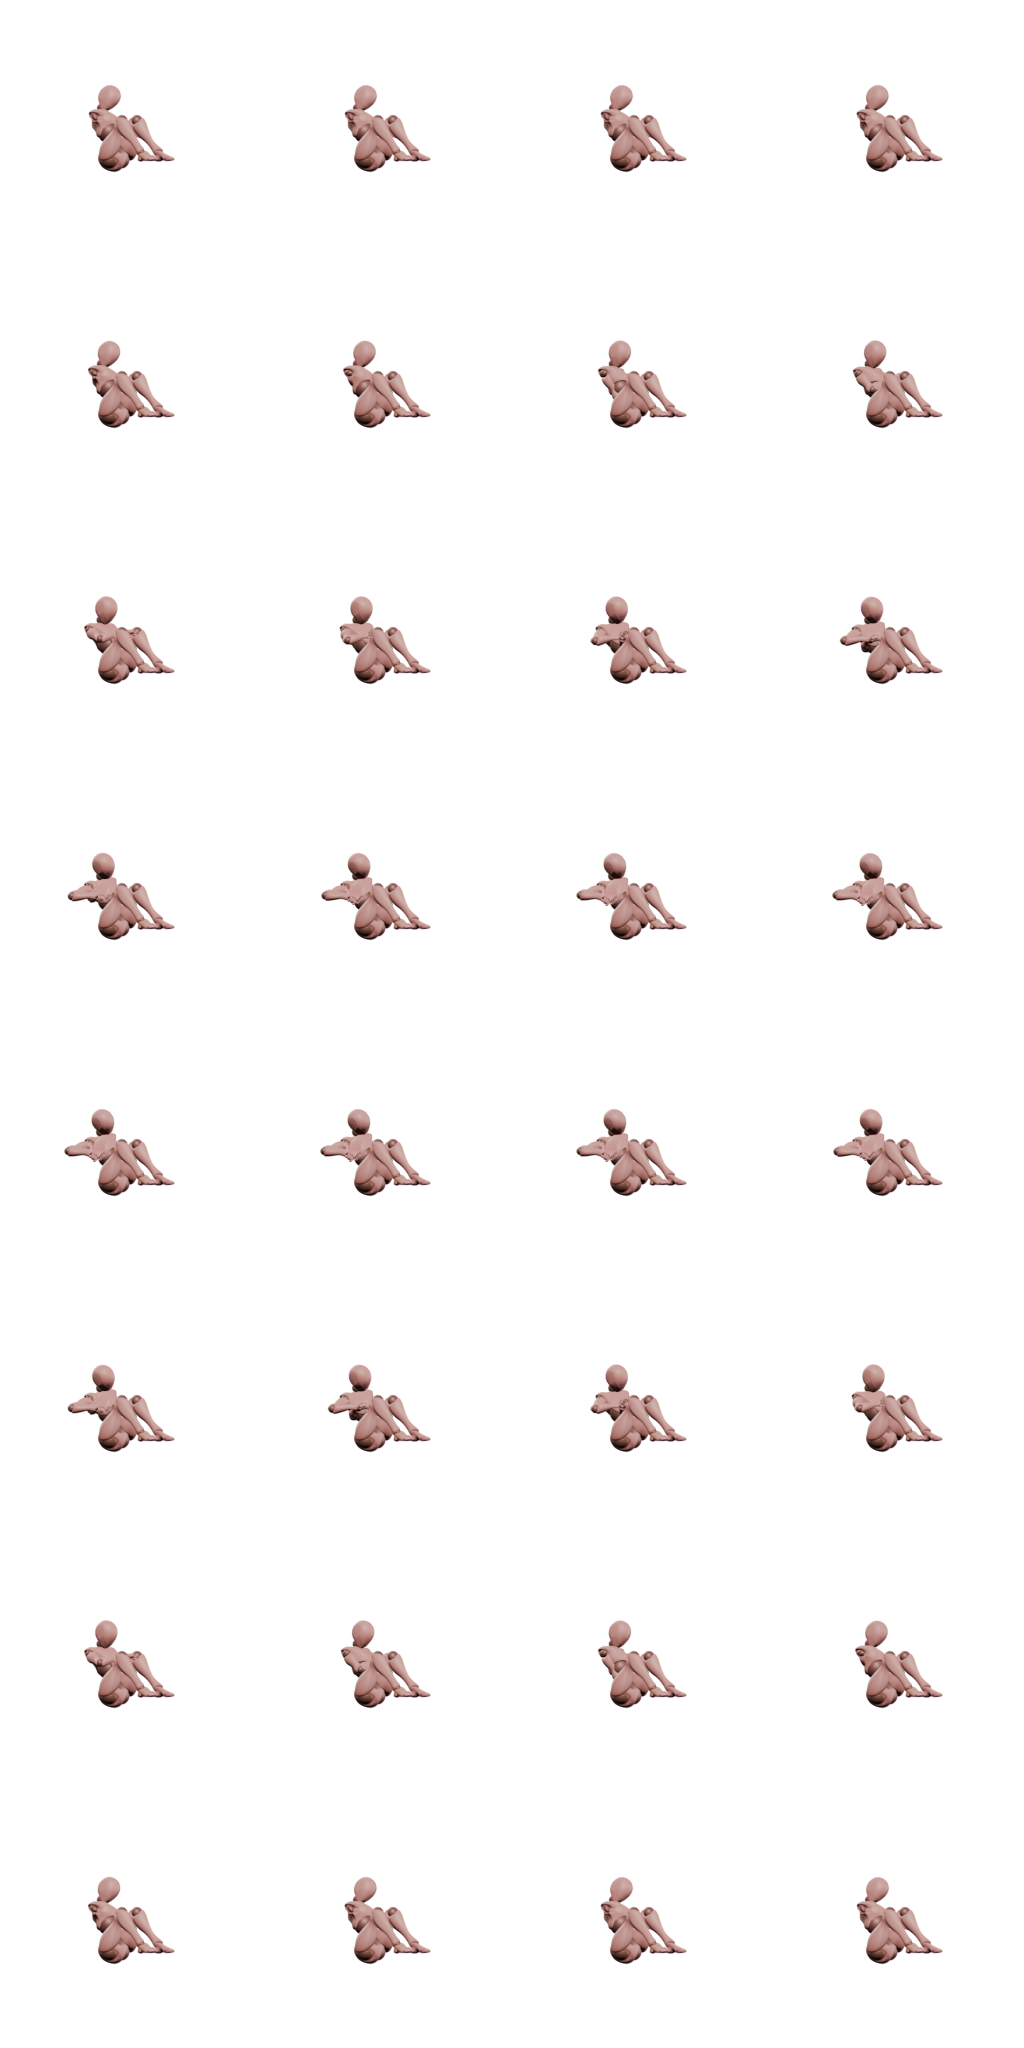
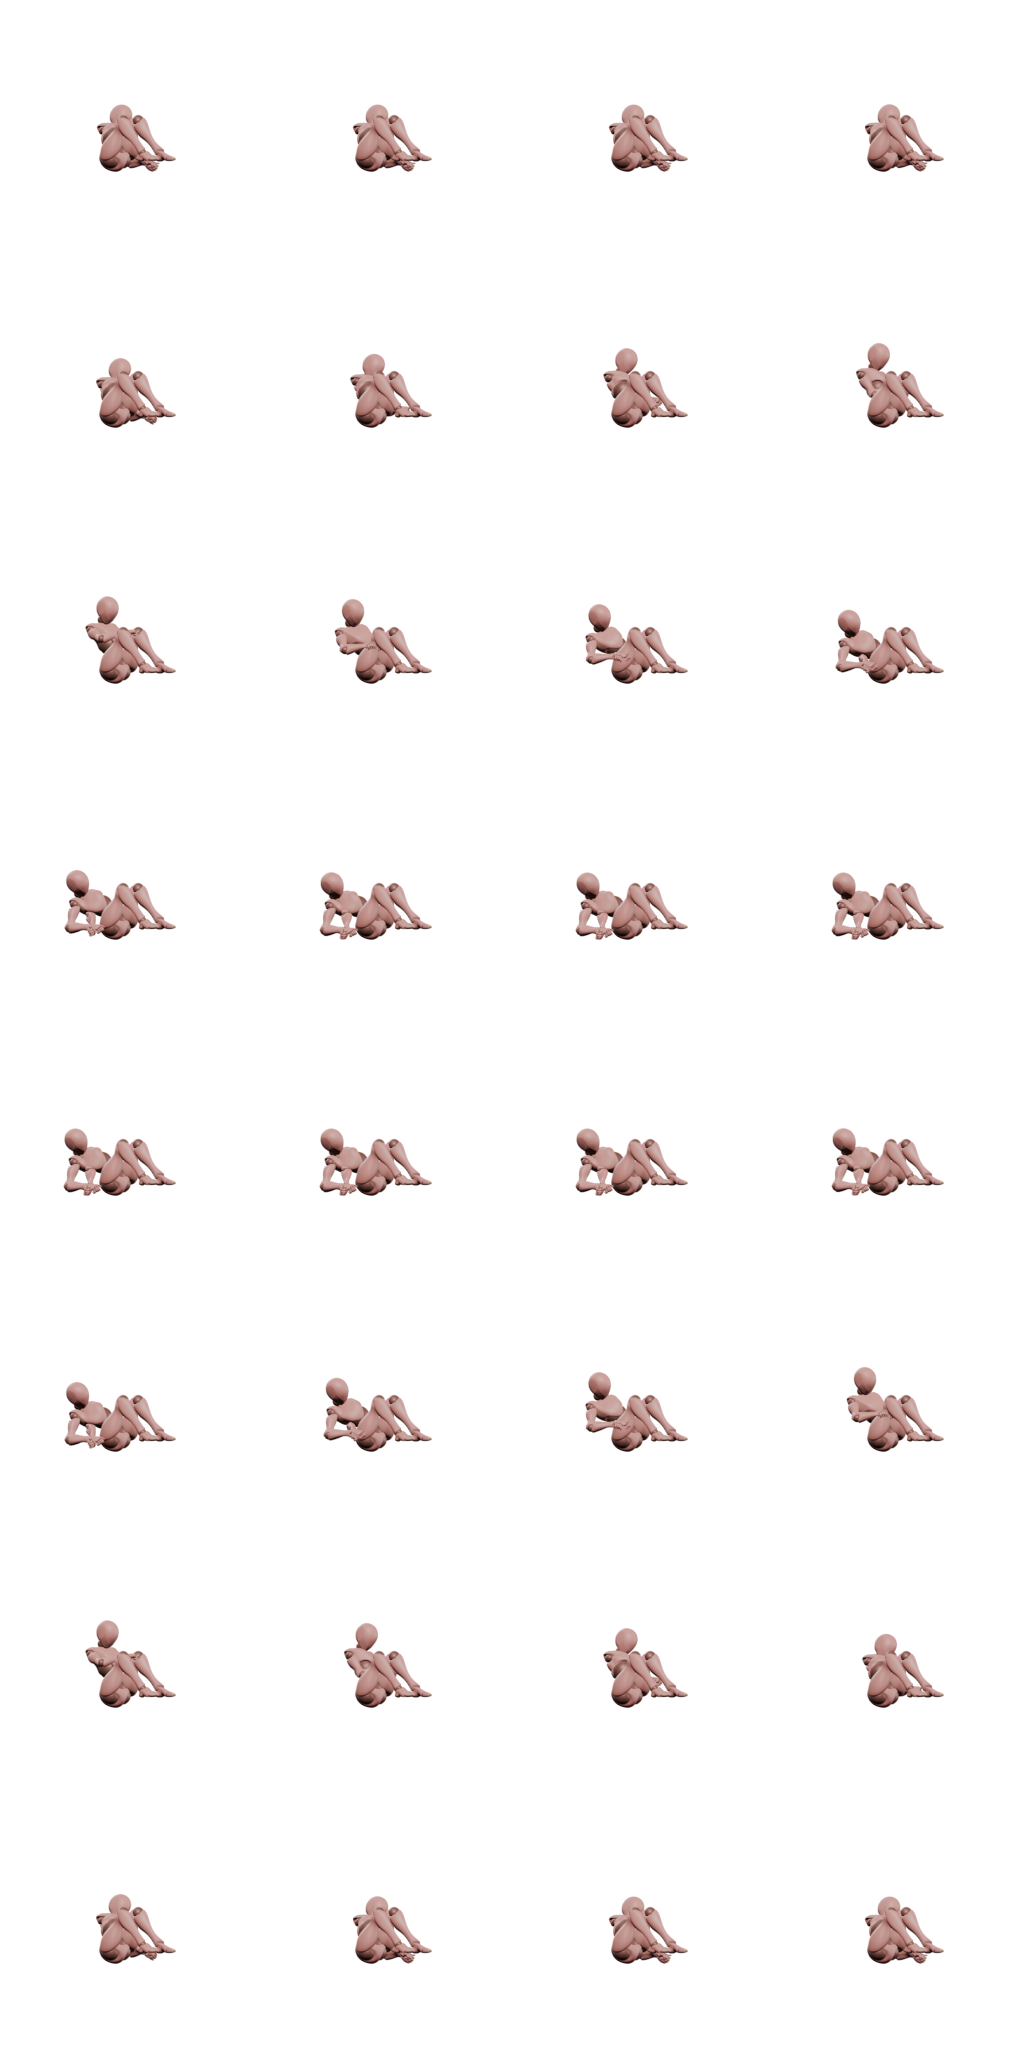
Le russian twist descend jusqu'au sol
Ce qui manquait n'était pas un angle mais la **borne** du mouvement : le
coude touche le tapis au bout de la course, à gauche puis à droite. C'est ce
contact qui dit jusqu'où tourner, et sans lui les cinq versions précédentes
balançaient les bras à mi-chemin sans que rien ne marque la fin.

Un coude qui descend au tapis à côté de la hanche demande plus qu'une
rotation du buste. Le calcul le dit : bras de 0,28 m, il faut l'épaule à
0,33 m du sol pour que le coude l'atteigne, alors qu'un buste seulement
pivoté la laisse à 0,50. Le tronc doit donc **pencher** du même côté en même
temps qu'il tourne. Les deux clés extrêmes inclinent la colonne de
soixante-cinq degrés sur le côté et la font rouler d'autant, et l'appui des
mains descend à neuf centimètres du sol : le coude s'y pose à quatre
centimètres près, épaisseur de chair comprise.

Le geste bouge enfin. Le déplacement moyen par image passe de 0,25 à 1,02 —
il était le plus faible des trente-deux planches, il est maintenant dans la
moyenne. Le bassin reste posé, rien ne traverse le plancher.

Claude-Session: https://claude.ai/code/session_01NWeSsvViQDVGJHt91FTbcJ

diff --git a/scripts/gestes_generes.py b/scripts/gestes_generes.py
@@ -1201,64 +1201,66 @@ GESTES = {
 
     # Russian twist, relevé sur trois vidéos de démonstration.
     #
-    # ## Ce qui fait l'exercice, et que trois versions ont manqué
+    # ## Ce qui fait l'exercice
     #
-    # La **rotation**, et rien d'autre. Le tronc garde son inclinaison du début
-    # à la fin, les jambes ne bougent pas, les mains restent jointes devant le
-    # sternum : ce qui travaille, ce sont les obliques qui font pivoter les
-    # épaules d'un côté puis de l'autre.
+    # Le torse pivote de gauche à droite, les bras avec, et **le coude touche
+    # le sol** au bout de la course de chaque côté. C'est ce contact-là qui
+    # borne le mouvement et le rend lisible : sans lui, on ne sait pas jusqu'où
+    # tourner, et cinq versions ont balancé les bras à mi-chemin sans que rien
+    # ne dise que c'était fini.
     #
-    # Et l'amplitude est **grande**. Sur la vidéo, à caméra fixe, on voit
-    # alternativement le dos de la démonstratrice et sa poitrine : elle tourne
-    # donc d'environ soixante-dix degrés de chaque côté, pas de quarante. Les
-    # trois premières versions balançaient les bras devant un buste immobile,
-    # ce qui n'est pas le même exercice.
+    # Un coude qui descend au tapis à côté de la hanche demande plus qu'une
+    # rotation : il faut que le buste **penche** du même côté. Les deux vont
+    # ensemble, et c'est pourquoi les clés extrêmes inclinent la colonne en
+    # plus de la faire rouler.
     #
     # ## Les mesures
     #
-    # Tronc à 65° du tapis, cuisse à 35° au-dessus de l'horizontale, tibia qui
-    # redescend de 33° — genou fléchi à 112°, cheville à vingt centimètres du
-    # sol. Les talons ne touchent jamais.
+    # Moyenne des **vecteurs** unitaires du relevé sur trente-huit images —
+    # jamais moyenne des angles, qui explose quand le segment passe près de la
+    # verticale de l'image :
+    #
+    #     bassin → épaule    (-0,436 ; +0,900)   64° au-dessus de l'horizontale
+    #     bassin → genou     (+0,452 ; +0,892)   63°
+    #     genou  → cheville  (+0,690 ; -0,724)  -46°
+    #
+    # Dispersion : 1,0°, 2,2° et 3,6°. Genou fléchi à 109°, cheville au-dessus
+    # du bassin d'un quart de longueur de tronc — assise, genoux hauts, talons
+    # décollés.
     "russian-twist": {
         "vue": "trois-quarts",
-        # Mille sept cent cinquante millisecondes pour un aller-retour complet.
-        # Relevé sur le va-et-vient du poignet : 1877 ms à vide, 1609 ms lesté.
         "duree": 1750,
-        # Le bassin est basculé en arrière, on est posé sur le sacrum, et l'on
-        # n'a que ce contact-là : la hauteur se déclare.
         "assise": ((+0.00, +0.423, +0.906), (+0.00, -0.906, +0.423)),
         "ancrage": False,
         "hauteur": 0.19,
         "symetrique": False,
-        # Les mains se **joignent**, ou tiennent un poids.
         "poings": 1.0,
-        # Un temps de chaque côté, rien au centre — on y passe, on ne s'y
-        # arrête pas.
-        "pauses": [0.10, 0.00, 0.10],
+        # Un temps au contact de chaque côté — c'est là qu'on marque —, rien au
+        # centre, qu'on traverse.
+        "pauses": [0.16, 0.00, 0.16],
         "cles": [
-            # Tourné à **gauche**, soixante-dix degrés. Debout comme assis, la
-            # gauche du personnage est en +X.
+            # Coude **gauche au sol**, à côté de la hanche gauche. Debout comme
+            # assis, la gauche du personnage est en +X.
             _pose(ASSIS_EN_ARRIERE, {
-                # La poitrine pivote autour de l'axe de la colonne. `APlat` ne
-                # sert d'ordinaire qu'à poser une paume au sol, mais son
-                # mécanisme est le **roulis** d'un os quelconque : appliqué au
-                # buste, il le fait tourner sur lui-même, ce qu'aucune direction
-                # ne sait dire.
-                _os("Spine1"): APlat((+0.00, +0.423, +0.906),
-                                     paume=(+0.94, -0.31, +0.145)),
-                _os("Spine2"): APlat((+0.00, +0.423, +0.906),
-                                     paume=(+0.94, -0.31, +0.145)),
-                _os("Neck"): (+0.20, +0.14, +0.97),
-                _os("Head"): (+0.40, -0.50, +0.77),
-                # Les mains se tiennent à trente centimètres devant le sternum
-                # et suivent la poitrine : la cible se calcule sur la normale du
-                # buste, qui tourne avec lui.
-                _os("LeftArm"): Appui((+0.28, 0.00, 0.43), (+1, 0, -0.3)),
-                _os("RightArm"): Appui((+0.28, 0.00, 0.43), (+1, 0, -0.3)),
+                # La colonne penche à gauche **et** roule à gauche : les deux
+                # ensemble descendent l'épaule assez bas pour que le coude
+                # atteigne le tapis.
+                _os("Spine"): (+0.645, +0.665, +0.375),
+                _os("Spine1"): APlat((+0.645, +0.665, +0.375),
+                                     paume=(+0.90, -0.36, +0.24)),
+                _os("Spine2"): APlat((+0.685, +0.635, +0.355),
+                                     paume=(+0.90, -0.36, +0.24)),
+                _os("Neck"): (+0.52, +0.42, +0.74),
+                _os("Head"): (+0.44, -0.30, +0.84),
+                # Les mains jointes se posent près du sol, contre la hanche, et
+                # le pôle pousse le coude vers le bas — c'est lui qui décide où
+                # sort la pointe du bras.
+                _os("LeftArm"): Appui((+0.42, -0.06, 0.09), (+0.45, 0, -0.89)),
+                _os("RightArm"): Appui((+0.42, -0.06, 0.09), (+0.45, 0, -0.89)),
                 _os("LeftHand"): SUIVRE,
                 _os("RightHand"): SUIVRE,
             }),
-            # De face, mains devant le sternum.
+            # De face, mains jointes devant le sternum.
             _pose(ASSIS_EN_ARRIERE, {
                 _os("Spine1"): APlat((+0.00, +0.423, +0.906),
                                      paume=(+0.00, -0.906, +0.423)),
@@ -1269,16 +1271,17 @@ GESTES = {
                 _os("LeftHand"): SUIVRE,
                 _os("RightHand"): SUIVRE,
             }),
-            # Tourné à **droite**, miroir exact.
+            # Coude **droit au sol**, miroir exact.
             _pose(ASSIS_EN_ARRIERE, {
-                _os("Spine1"): APlat((+0.00, +0.423, +0.906),
-                                     paume=(-0.94, -0.31, +0.145)),
-                _os("Spine2"): APlat((+0.00, +0.423, +0.906),
-                                     paume=(-0.94, -0.31, +0.145)),
-                _os("Neck"): (-0.20, +0.14, +0.97),
-                _os("Head"): (-0.40, -0.50, +0.77),
-                _os("LeftArm"): Appui((-0.28, 0.00, 0.43), (-1, 0, -0.3)),
-                _os("RightArm"): Appui((-0.28, 0.00, 0.43), (-1, 0, -0.3)),
+                _os("Spine"): (-0.645, +0.665, +0.375),
+                _os("Spine1"): APlat((-0.645, +0.665, +0.375),
+                                     paume=(-0.90, -0.36, +0.24)),
+                _os("Spine2"): APlat((-0.685, +0.635, +0.355),
+                                     paume=(-0.90, -0.36, +0.24)),
+                _os("Neck"): (-0.52, +0.42, +0.74),
+                _os("Head"): (-0.44, -0.30, +0.84),
+                _os("LeftArm"): Appui((-0.42, -0.06, 0.09), (-0.45, 0, -0.89)),
+                _os("RightArm"): Appui((-0.42, -0.06, 0.09), (-0.45, 0, -0.89)),
                 _os("LeftHand"): SUIVRE,
                 _os("RightHand"): SUIVRE,
             }),
